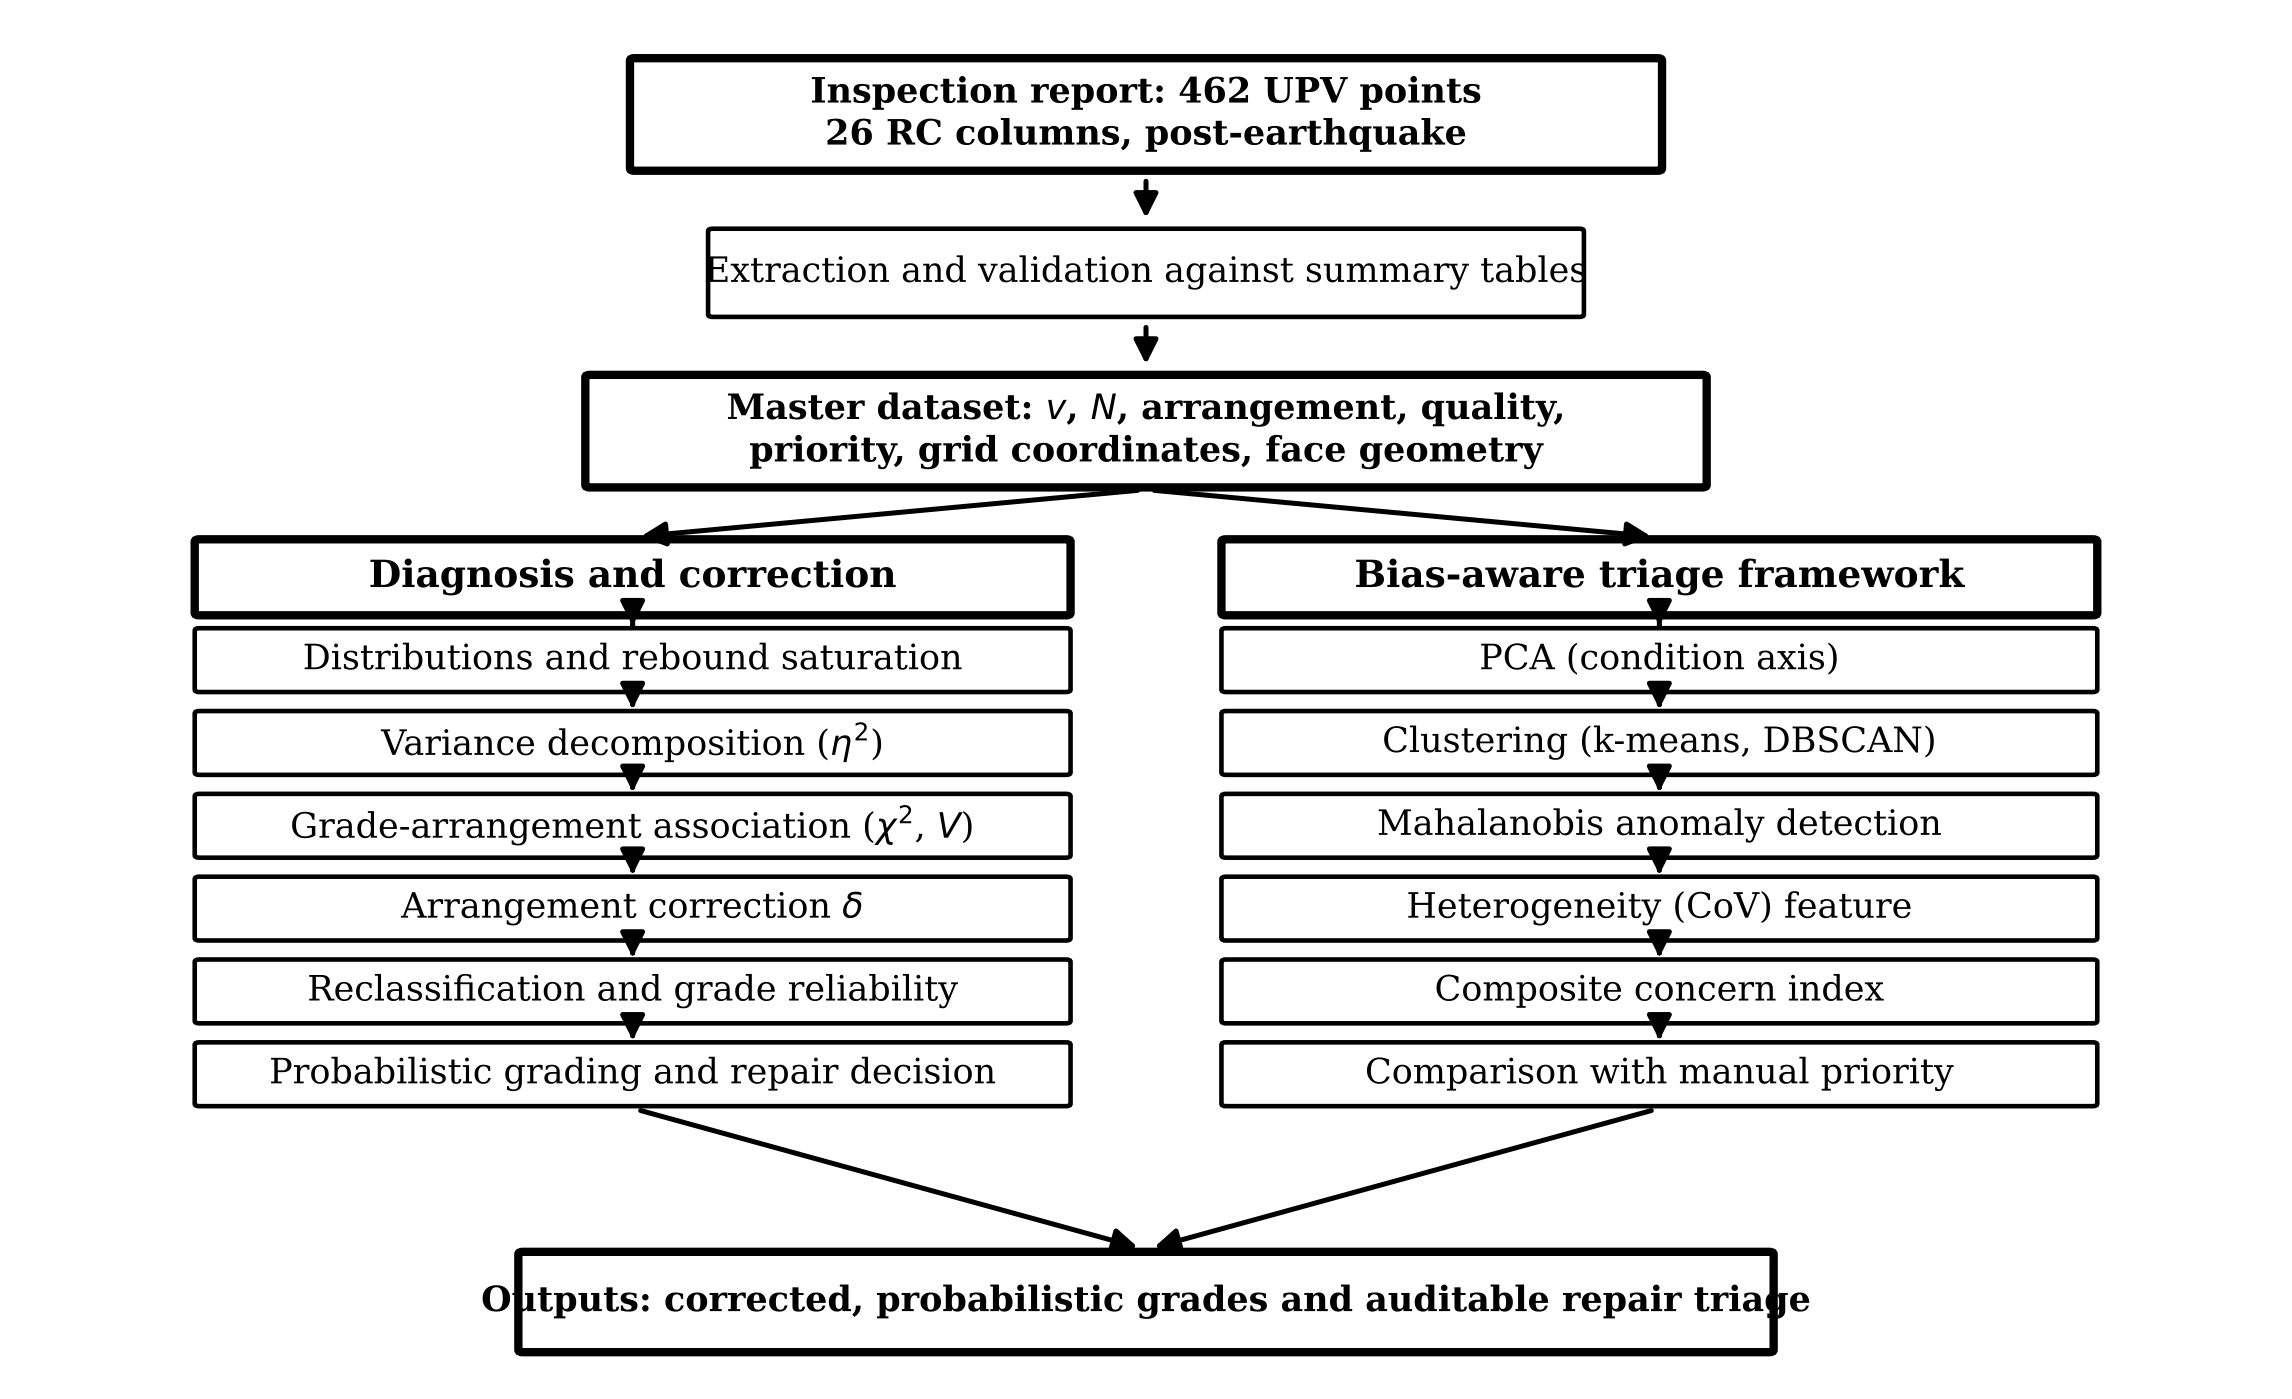
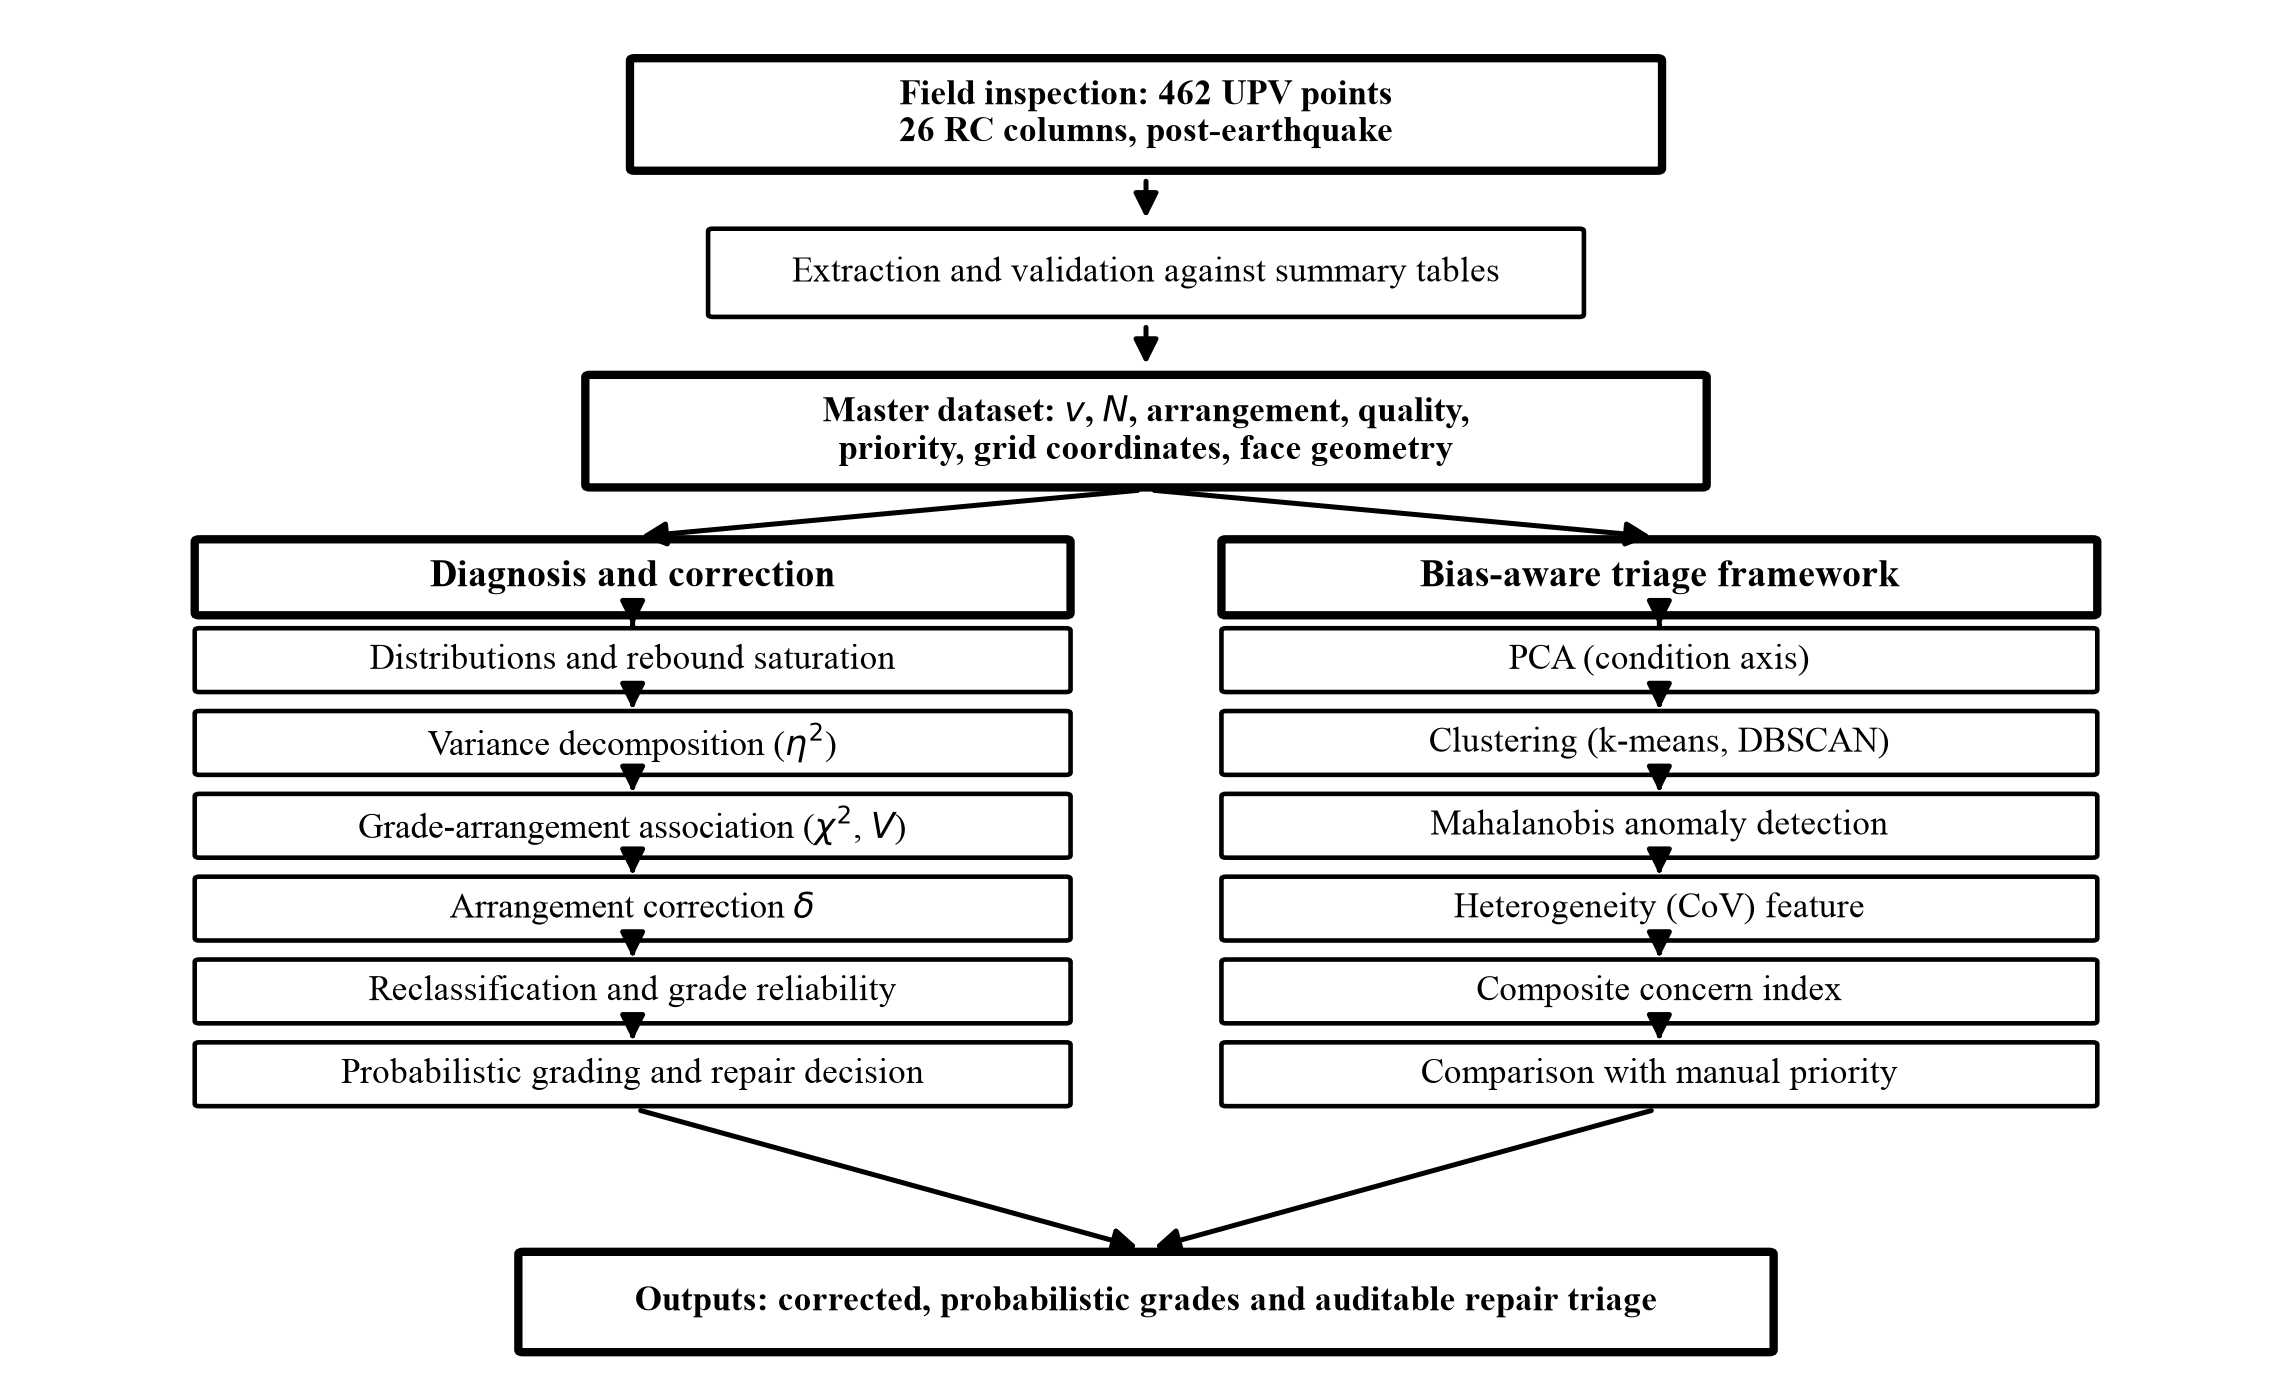
Describe data as field inspection records; update flowchart label

diff --git a/src/fix_figures_rineng.py b/src/fix_figures_rineng.py
@@ -111,7 +111,7 @@ ax.axis("off")
 # Top / master boxes
 top_x, top_y, top_w, top_h = 5, 10.3, 4.6, 0.9
 box(ax, top_x, top_y, top_w, top_h,
-    "Inspection report: 462 UPV points\n26 RC columns, post-earthquake", emph=True)
+    "Field inspection: 462 UPV points\n26 RC columns, post-earthquake", emph=True)
 
 extr_x, extr_y, extr_w, extr_h = 5, 9.0, 3.9, 0.7
 box(ax, extr_x, extr_y, extr_w, extr_h, "Extraction and validation against summary tables")

diff --git a/README.md b/README.md
@@ -39,7 +39,7 @@ upv-arrangement-bias/
 
 | Column | Meaning |
 |---|---|
-| `col` | Column identifier (as in the inspection report) |
+| `col` | Column identifier (as in the field records) |
 | `point` | Test point ID within the column |
 | `vel` | Measured pulse velocity, km/s (velocities were recorded directly; transit times were not stored) |
 | `rebN` | Mean rebound number at the point |
@@ -73,7 +73,7 @@ The `data/*.json` files are the reference results of the submitted analysis (use
 All randomness is seeded: `default_rng(42)` in script 01 and `revision_analysis.py` (whose Monte-Carlo step uses seed 20 and replicates the seed-11 stream of script 03), and `default_rng(20)` in script 05. A re-run from a fresh copy reproduces the reference JSON results; `master_dataset.csv` rebuilt by script 01 matches `data/master_dataset.csv` in all values (formatting of floats may differ).
 
 ## Not included
-- The original inspection report (PDF, in Thai) and field photographs. The per-point CSVs in `data/` were extracted from the report beforehand. Without the photographs, script 02 skips the photo composite `g0_field.png` and prints a note.
+- Field photographs. The per-point CSVs in `data/` were compiled beforehand from the field inspection records. Without the photographs, script 02 skips the photo composite `g0_field.png` and prints a note.
 - Manuscript LaTeX sources and superseded exploratory scripts.
 
 ## How to cite
